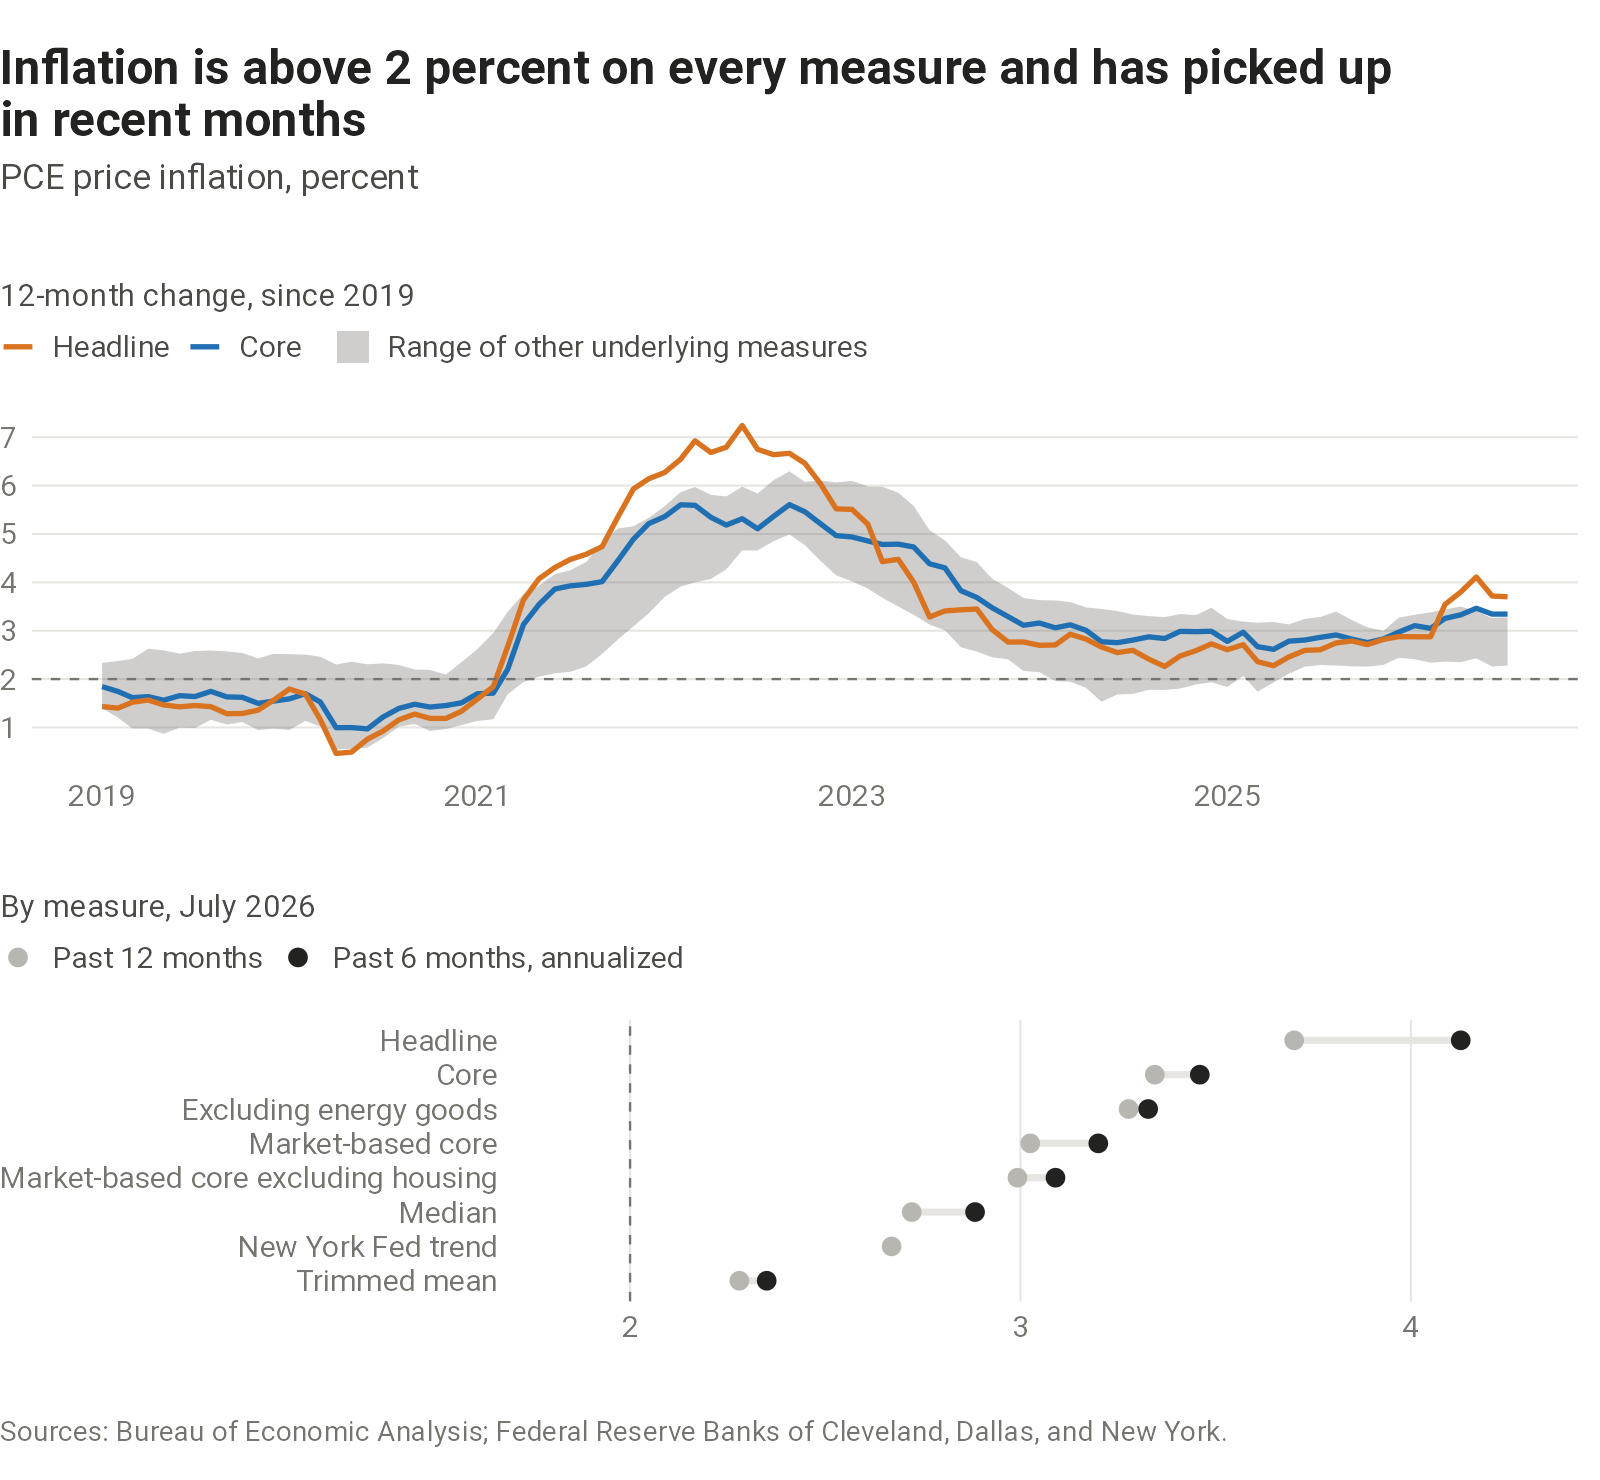
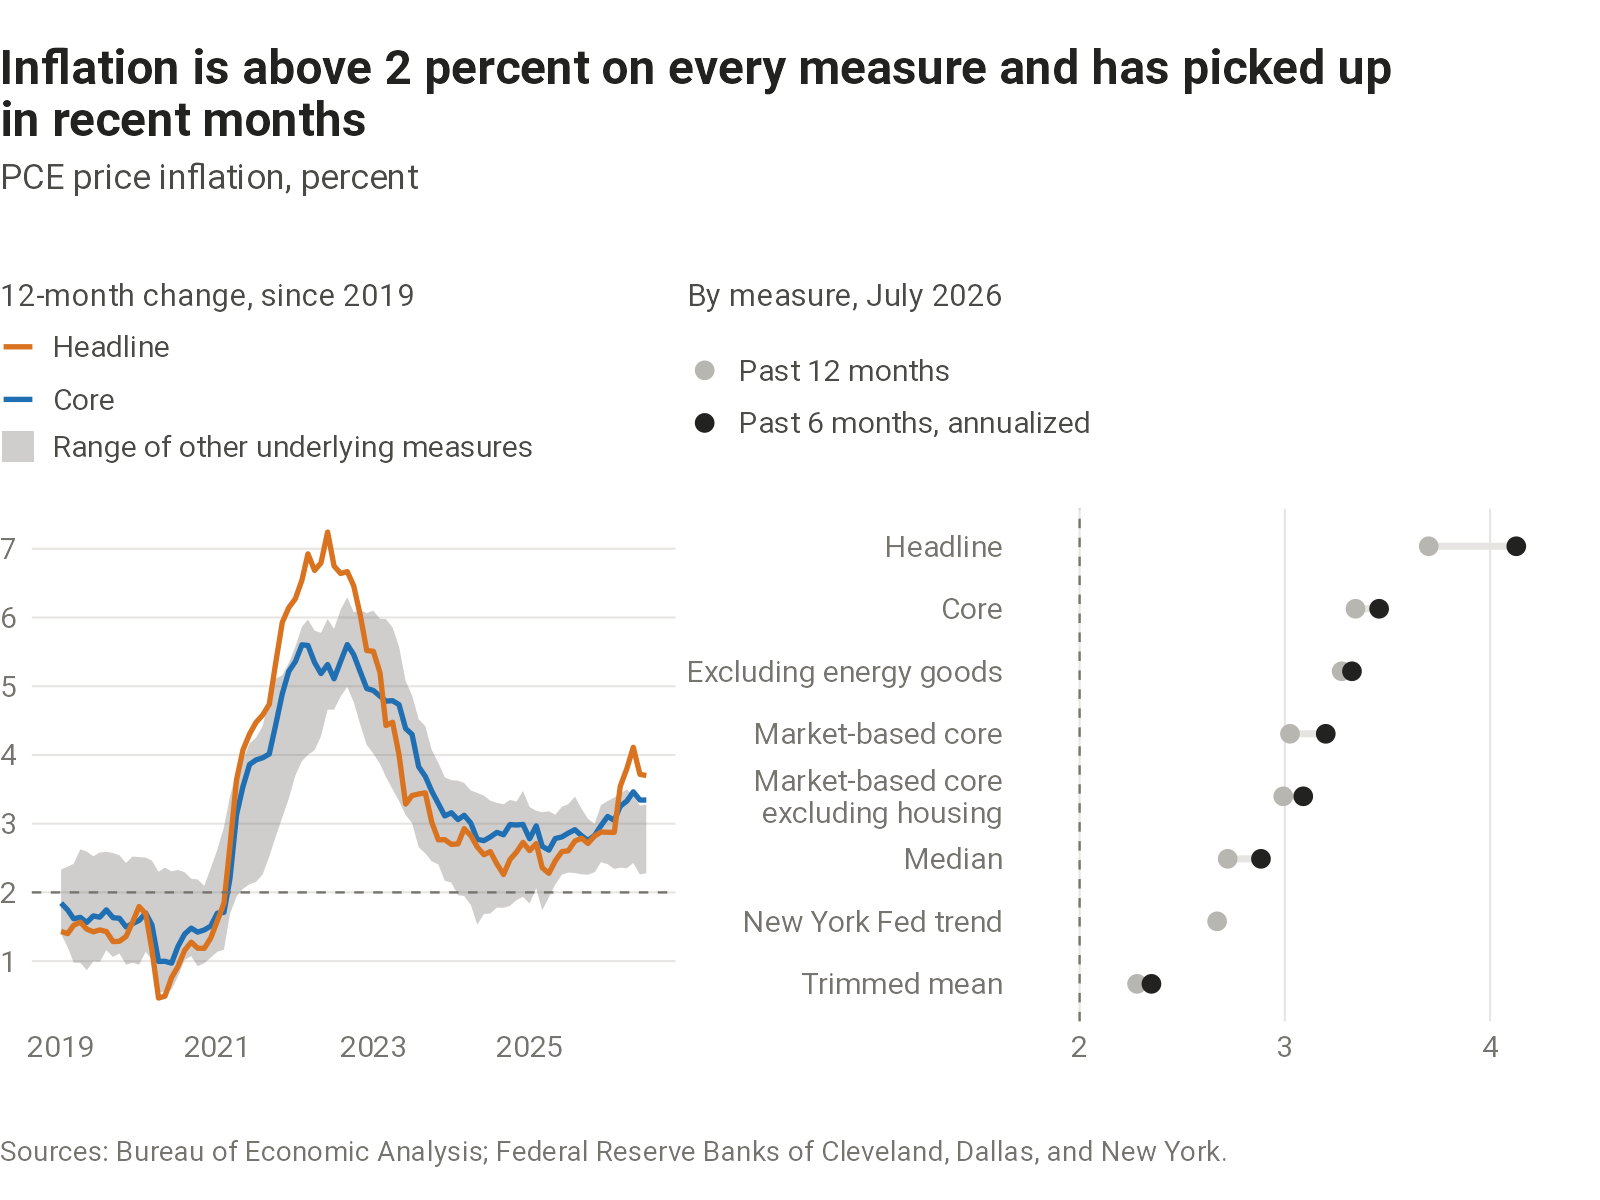
Show the underlying inflation panels side by side on desktops
Claude-Session: https://claude.ai/code/session_01C4kQtTHdakDNHHerQuEFwM

diff --git a/charts/inflation-measures/spec.md b/charts/inflation-measures/spec.md
@@ -78,6 +78,6 @@ Sharif's latest value isn't matched. His tweet also mentions leaving out portfol
 
 ## Decision log
 
-- 2026-09-27: One figure in two stacked panels: headline and core since 2019 with the range of the other measures, then every measure's latest 12-month and six-month rates. Side by side was too cramped on phones.
+- 2026-09-27: One figure in two panels: headline and core since 2019 with the range of the other measures, and every measure's latest 12-month and six-month rates. Side by side on desktops, stacked on phones, where side by side was too cramped.
 - 2026-09-27: Market-based core excluding housing follows Sharif; the history matches his chart but the latest value doesn't (2.99 against 3.23).
 - 2026-09-27: Title: "Inflation is above 2 percent on every measure and has picked up in recent months." Check on each refresh that every measure is still above 2 percent and that six-month rates are above 12-month rates; the text's "every measure has picked up" is computed.
